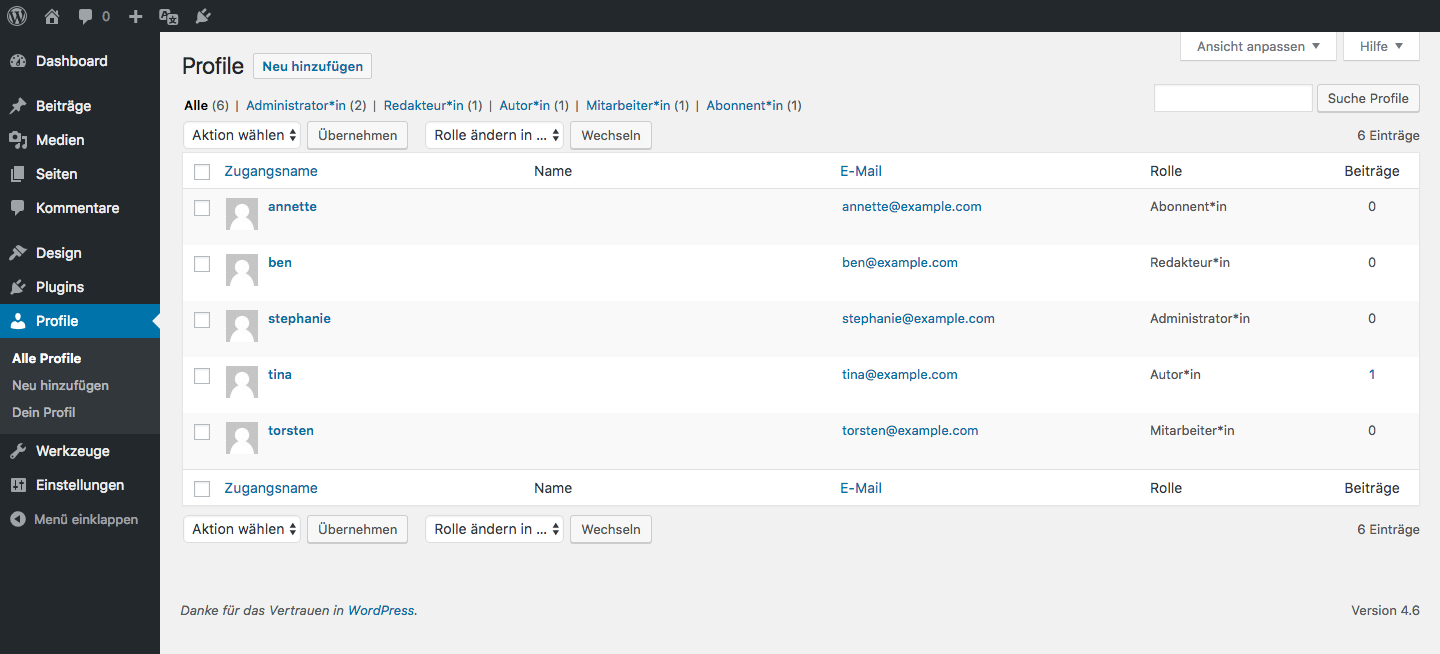
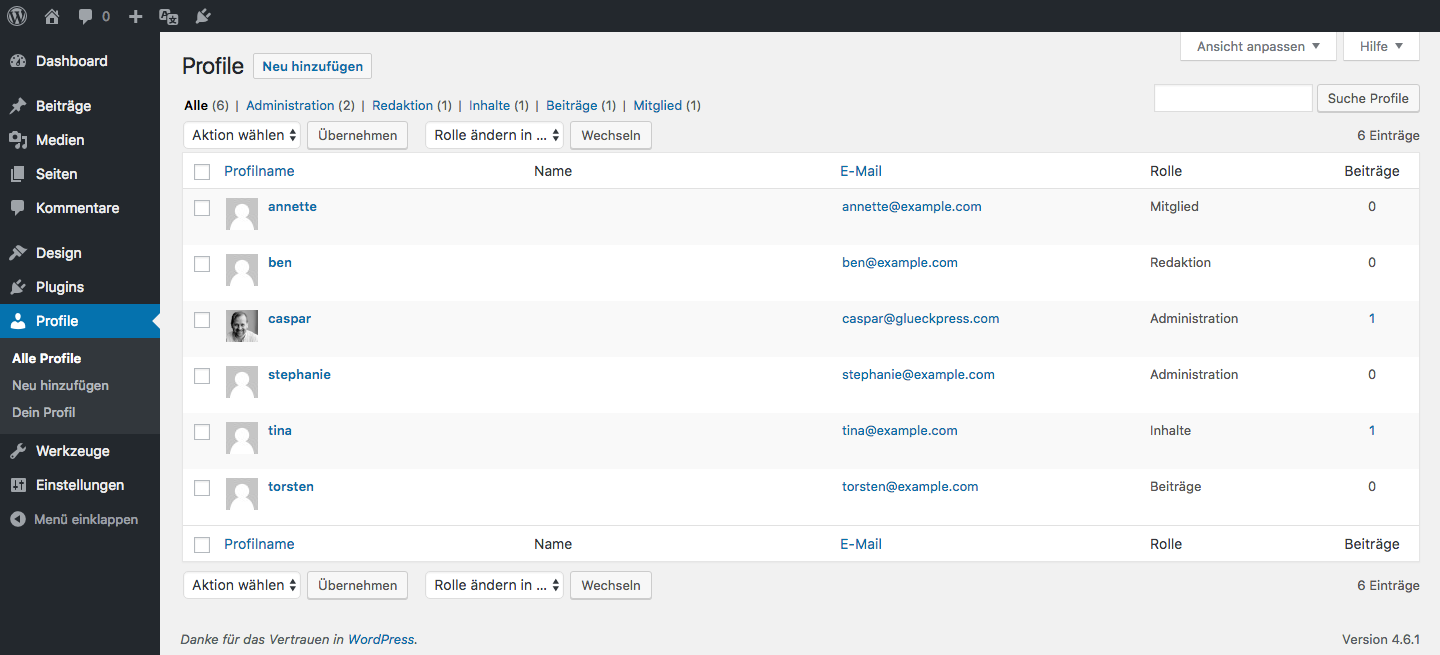
0.2.0 release prep

diff --git a/templates/admin-notice-plugin-activated.php b/templates/admin-notice-plugin-activated.php
@@ -11,7 +11,7 @@
 ?>
 <div style="max-width:64em;width:100%;">
 <h4>🙆💐🎉&#160;Tadaaa, Stringintelligenz ist an!</h4>
-<p>Sofern du Administrationsrechte hast, solltest du beispielsweise das Wort <em>„Profile“</em> anstatt <em>„Benutzer“</em> im Admin-Menü sehen. <em>„Benutzerrollen“</em> heissen jetzt einfach <em>„Rollen“</em>, und die Rollenbezeichnung selber haben eine zusätzliche Endung bekommen.
+<p>Sofern du Administrationsrechte hast, solltest du beispielsweise das Wort <em>„Profile“</em> anstatt <em>„Benutzer“</em> im Admin-Menü sehen. <em>„Benutzerrollen“</em> heissen jetzt einfach <em>„Rollen“</em>, und die Rollennamen verwenden funktionale Begriffe anstatt Personenbezeichnungen. Außerdem tragen andere Personenbezeichnungen, wie zum Beispiel <em>„Autor“</em>, eine zusätzliche Endung.
 	<br>Schau dich einfach mal um!</p>
 <h4>💭💡📢&#160;Feedback?</h4>
 <p>Feedback und Verbesserungsvorschläge sind notwendig und willkommen!

diff --git a/stringintelligenz.php b/stringintelligenz.php
@@ -2,7 +2,7 @@
 /**
  * Plugin Name: Stringintelligenz
  * Description: Gender-sensitive language for WordPress in German
- * Version:     0.1.0
+ * Version:     0.2.0
  * Author:      Caspar Hübinger
  * Author URI:  https://profiles.wordpress.org/glueckpress
  * License:     GPLv3
